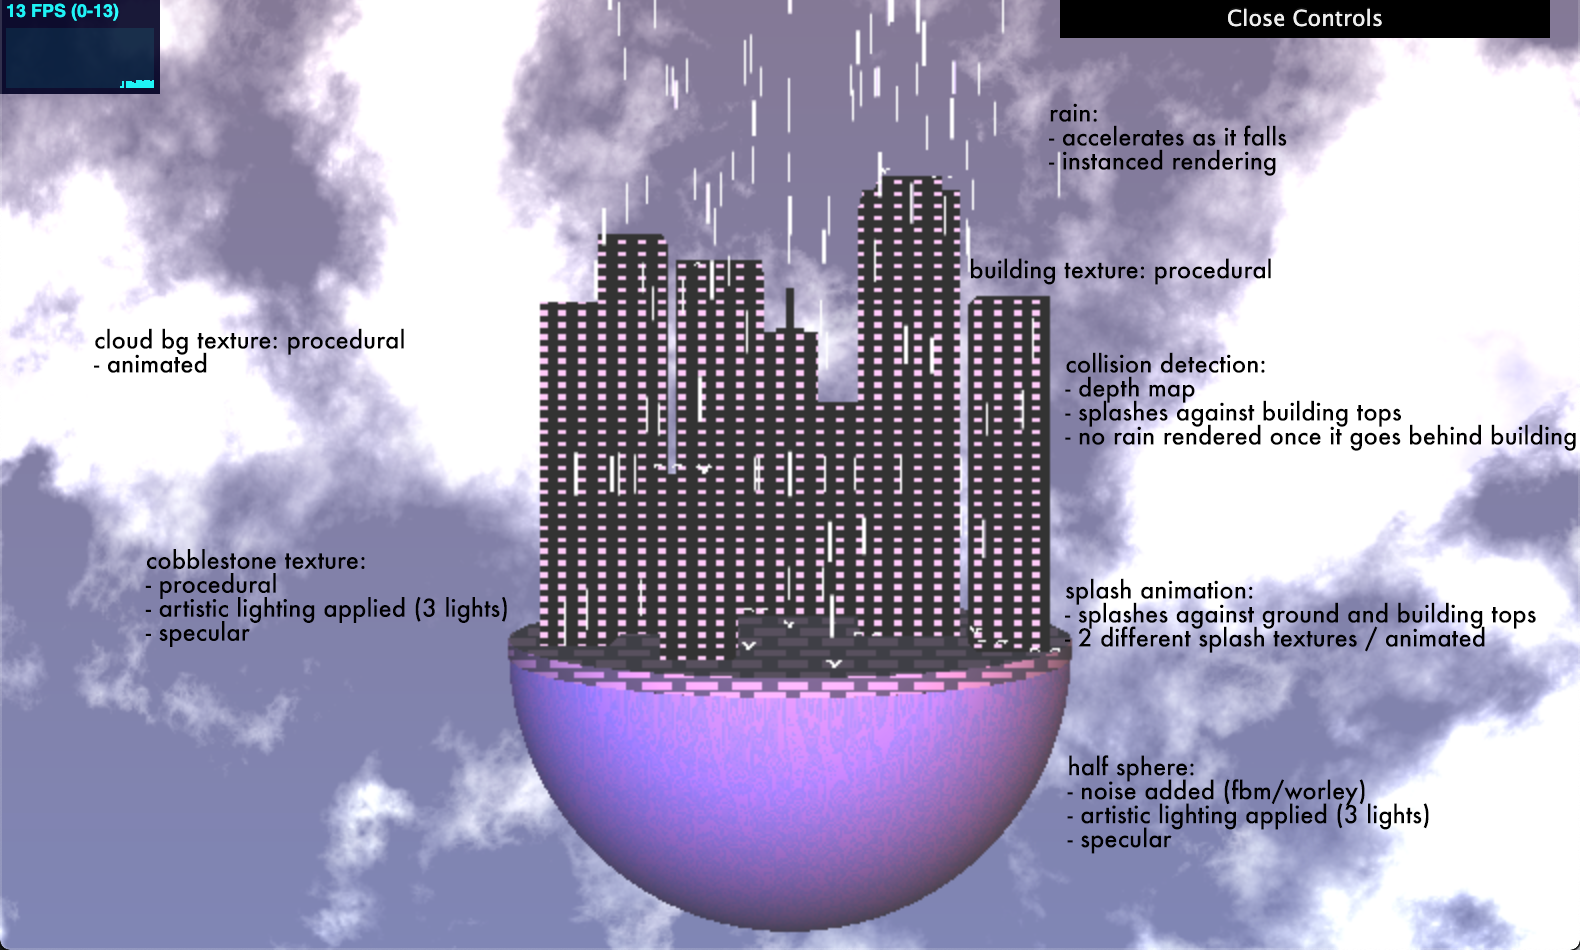
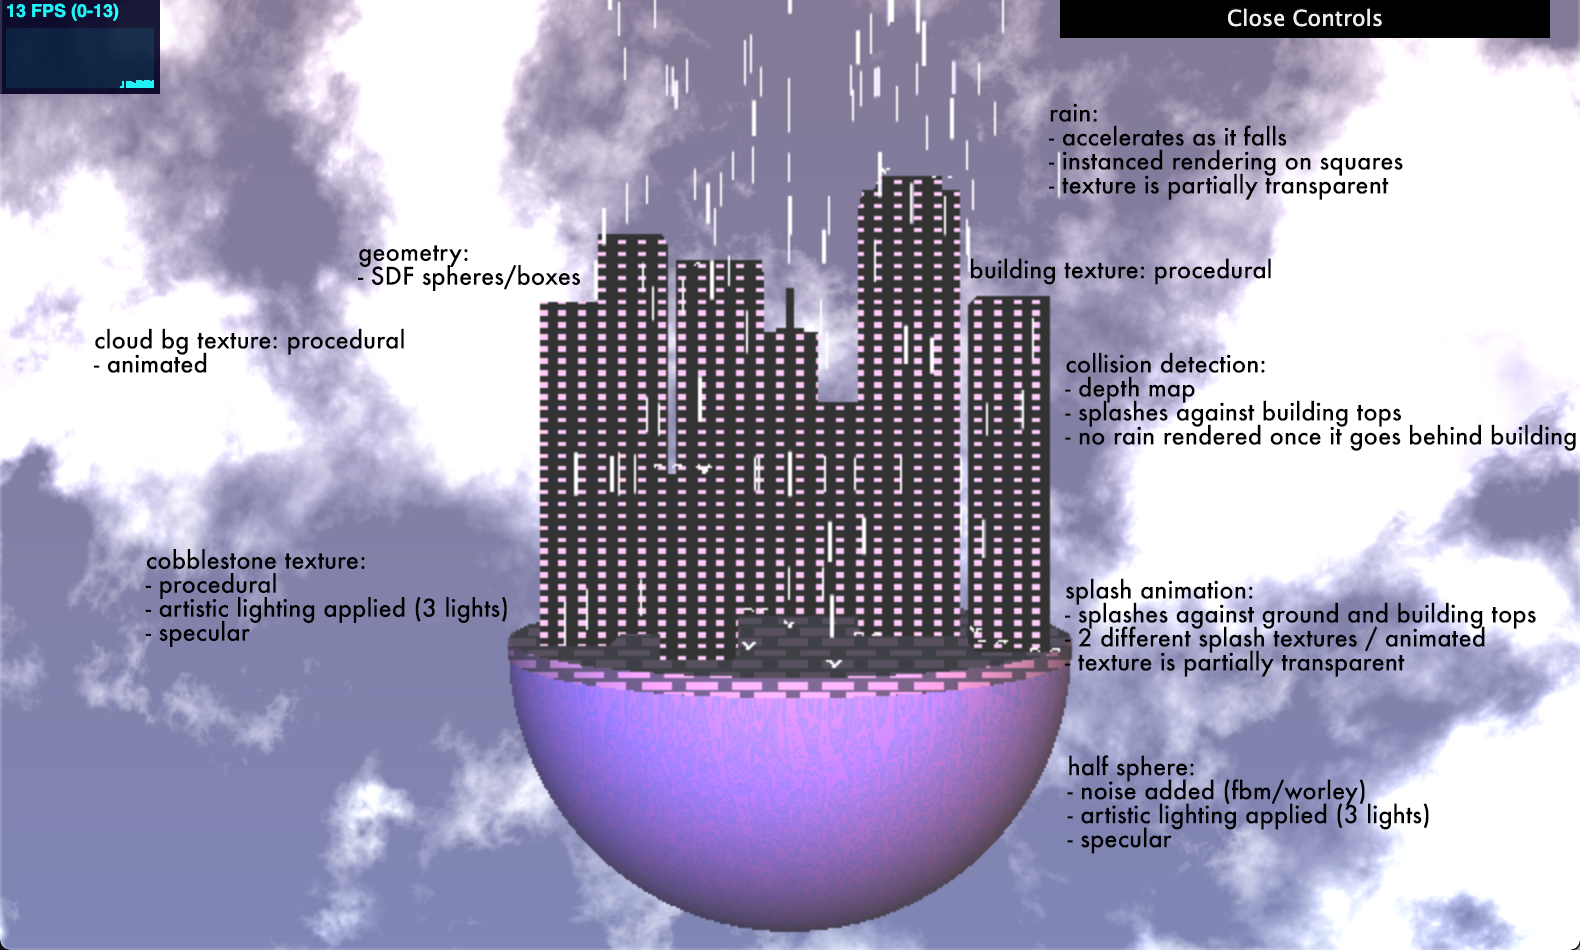
readme, images updated

Changed region(s): [[0.6513, 0.1526, 0.8994, 0.2137], [0.2171, 0.2442, 0.3722, 0.3053], [0.6823, 0.6716, 0.8994, 0.7021]]

diff --git a/README.md b/README.md
@@ -1,28 +1,59 @@
 # Final Project: Rain Environment
 ## Amy Chen // amyjchen
-## Demo Link: 
+## Demo Link: https://merunicorn.github.io/566-final-project/
 
-![](rain.png)
+![](rainycity.png)
 
-## Milestone Steps
+![](rainycity_annotated.png)
+
+## Steps
 - __Base Code__
   - I used the HW04 L-System base code, copying over my implementation of instanced rendering from that homework.
 - __Particle System__
   - I created a new particle class, which has the following variables: initial position, initial velocity, acceleration, final position, final velocity
   - It contains the function getNewPos(), which takes in a deltat value (change in time) and plugs it into the equations of motion. As a result, we can calculate new positions based on constant acceleration (gravity).
-  - I later added a "drag" option, where by letting drag = true, we can instead mimic a constant velocity, which is more similar to the rain effect we can perceive, since most rain has reached its terminal velocity by the time we can see it in the air.
-  - The getNewPos() function also partially takes care of respawning the particle at the top, where if it hits some "ground" value (here set to be -10), it'll reset pos to be at some "sky" value (here set to be 10). It'll then update the particle class's variables and return the new calculated final position.
+  - The getNewPos() function also partially takes care of respawning the particle at the top, where if it hits some "ground" value (here set to be -10), it'll reset pos to be at some "sky" value (here set to be 15). It'll then update the particle class's variables and return the new calculated final position.
 - __Grid__
   - I also created a grid class, which is used to set up the VBO data and represent the array of particles.
   - setVBO() sets up the instances to render in a grid-like formation, with x and z offsets. It sets up 4 vec4s, which can later be combined to form a transformation matrix.
   - setFallVBO() sets up the different frame particle positions, by setting up each value in 3 mat4s to be a new y position based on some set time increment (here, this is 1/24 of a second). In this way, we can set up essentially 48 different frames for the particle, which can be read into the shader, where a specific frame can be picked based on u_Time. Note that these values are set up differently based on if we use constant acceleration or constant velocity.
   - setPosVBO() sets up the initial position of our particle. For each particle in the grid, a random value between 1 and 48 is added to an array set up for instancing, where each instance will read one value. I adapted the instanced code for color array for this, so it is still as of now named vs_Col in the shader.
 - __Instanced Vertex Shader__
-  - Using the HW4 base code, I maintained billboarding, to be used when the instanced squares are later replaced with textures representing the raindrops.
   - I set up the transformation matrix based on the 4 vec4s passed in.
   - I then replace the y value in the last vec4 with a specific value in the fall position mat4s passed in:
   - I take u_Time mod 48 (since 48 is the number of frames), then add to this value the position offset (vs_Col)
   - Where the value is x, I let the xth value in the fall position mat4s be the new y value.
+- __Depth Map__
+- Also in the instanced vertex shader, I hardcoded in a depth map
+- Based off the x/z values of the rain particle, I can determine when the particle would collide with geometry
+- I can thus set different particles in different locations to "collide" at different heights, as if they are interacting with the SDF buildings
+- I also make sure to not render raindrops past the height of a building if it's z value is behind that of a building (in other words, this ensures that we cannot see raindrops through buildings)
+- __Camera__
+- I disabled camera controls, hard-coding in the values for position/eye, center/target, and up
+- __Textures__
+- REFERENCED: Adam's Texture Demo
+- I imported in textures I made for the rain drop, and two different textures for the splash.
+- In the instanced shader, the texture switches to the second splash texture after 2 frames, then will stop rendering after another two frames; this simulates the animation of a splash
+- Rain and splash textures are rendered on an instance of a square
+- In the instanced fragment shader, I read in the texture (UVs set up in vertex and passed to fragment)
+- Alpha check to discard transparent fragments, so square outline is not visible
+- __Procedural Textures__
+- REFERENCED: Book of Shaders Demo (https://thebookofshaders.com/09/)
+- Created a procedural square texture to use on the buildings
+- Edited to use as a "cobblestone"-like texture on the top of the half sphere/ground
+- REFERENCED: Old Homeworks/Adam's FBM, Worley Noise
+- I also used FBM and Worley Noise to add a subtle texture to the half-sphere
+- REFERENCED: Shader Toy 2d Clouds (https://www.shadertoy.com/view/4tdSWr)
+- Used code found on ShaderToy for the animated cloud background
+- __Lighting__
+- REFERENCED: Old Homeworks/Emily's lighting demo
+- Applied three specular lights of different colors, directions, and intensities for an artistic lighting effect
+- Only applied to the cobblestone and half-sphere
+- __SDF Geometry__
+- Sphere marched SDFs
+- REFERENCED: Old Homeworks/IQ's SDF functions
+- Used boxes and spheres, with various union and intersection operations
+- Separated into different SDF functions so I can distinguish later for different texturing,colors,etc.
 
 ## Paper: Realistic Rain Rendering in Realtime
 ## Link: https://www.sciencedirect.com/science/article/pii/S0097849312001781?via%3Dihub
